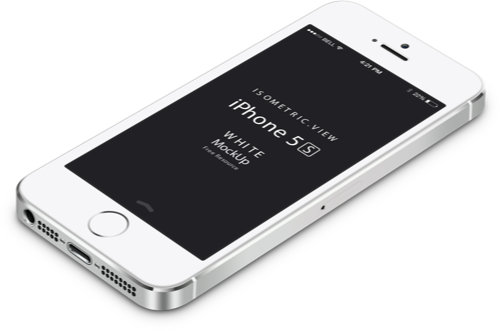
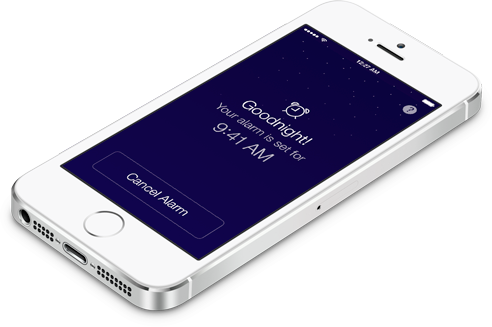
Modified badge and added hover state. Badge now has active state. Update iPhone images. Updated sizing and positioning of elements.

diff --git a/Website/index.html b/Website/index.html
@@ -8,8 +8,16 @@
 		
 		// This should also be called on page load
 		var animation_duration = 8;
-		jQuery(window).scroll(function() {
+		jQuery(window).scroll(function(event) {
 			var section = jQuery(window).scrollTop() / $('div.full').height();
+			
+			// "Snap" to pages
+			clearTimeout($.data(this, 'scrollTimer'));
+			$.data(this, 'scrollTimer', setTimeout(function() {
+				// do something
+				$("html, body").animate({scrollTop: ($('div.full').height() * section)}, 50, "swing");
+				console.log("Haven't scrolled in 250ms!");
+			}, 50));
 			
 			// Animate Sky Color
 			$("#skyBackground1").animate({opacity: -section+1}, animation_duration, "swing");
@@ -231,7 +239,7 @@
 			display: inline-block;
 			height: 120px;
 			top: 50%;
-			margin-top: -98px;
+			margin-top: -112px;
 			position: absolute;
 		}
 		#testimonials {
@@ -240,6 +248,7 @@
 			clear: both;
 			padding: 28px;
 			width: 320px;
+			margin-top: 16px;
 		}
 		.quote {
 			font-size: 28px;
@@ -256,6 +265,7 @@
 			height: 100%;
 			width: 100%;
 			max-width: 960px;
+			min-width: 832px;
 			margin: auto;
 			left: 0;
 			right: 0;
@@ -263,14 +273,28 @@
 		}
 		#iPhone {
 			display: block;
-			background: url("screenshots/iPhone@2x.png") no-repeat;
-			background-size: 500px, 331px;
+			background: url("screenshots/iPhone.png") no-repeat;
+			background-size: 492px, 327px;
 			background-position: 100% 55%;
 			width: 100%;
 			height: 100%;
-			max-width: 758px;
+			max-width: 832px;
+			min-width: 800px;
 			margin: auto;
 			padding: 0 64px;
+		}
+		.AppStoreDownload {
+			background: url("Download_on_the_App_Store_Badge_US-UK_162x48@2x.svg") center no-repeat;
+			display: inline-block;
+			width: 162px;
+			height: 48px;
+			-webkit-transition: opacity .2s ease-in-out;
+		}
+		.AppStoreDownload:hover {
+			background: url("Download_on_the_App_Store_Badge_US-UK_162x48_Hover@2x.svg") center no-repeat;
+		}
+		.AppStoreDownload:active {
+			opacity: .7;
 		}
 		.play {
 			width: 18px;
@@ -292,6 +316,20 @@
[1 lines of base64/hex data omitted]
 		}
 		
+		/* Retina Stuff */
+		@media
+		only screen and (-webkit-min-device-pixel-ratio: 2),
+		only screen and (   min--moz-device-pixel-ratio: 2),
+		only screen and (     -o-min-device-pixel-ratio: 2/1),
+		only screen and (        min-device-pixel-ratio: 2),
+		only screen and (                min-resolution: 192dpi),
+		only screen and (                min-resolution: 2dppx)
+		{ 
+			#iPhone {
+				background: url("screenshots/iPhone@2x.png") no-repeat;
+			}
+		}
+		
 	</style>
 </head>
 <body>
@@ -308,10 +346,10 @@
 	
 	<div class="section">
 		<div class="feature">
-			<img style="float:left;clear:none;padding:10px;" src="app-icon@2x.png" id="app-icon" width="120px" height="120px">
+			<img style="float:left;clear:none;padding:10px;margin-top: -16px;" src="app-icon@2x.png" id="app-icon" width="120px" height="120px">
 			<div id="app-name">
 				<h1>Goodnight</h1>
-				<a href=""><img src="Download_on_the_App_Store_Badge_US-UK_162x48.svg" width="162px" height="48px" alt="Download in the App Store" /></a>
+				<a href="" class="AppStoreDownload" alt="Download on the App Store"></a>
 			</div>
 			<div id="testimonials">
 				<p class="quote">"I've never been so excited about going to sleep"</p>
